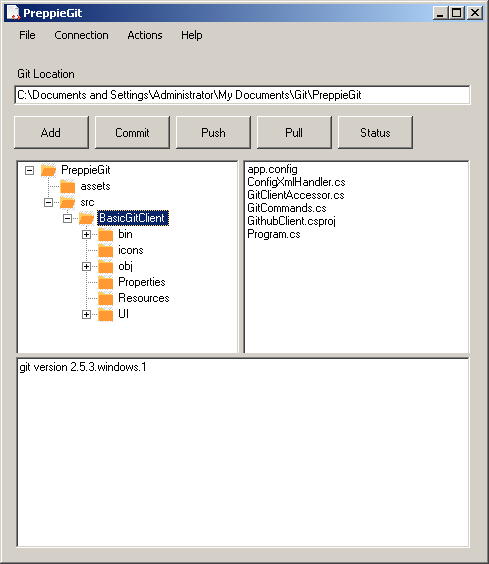
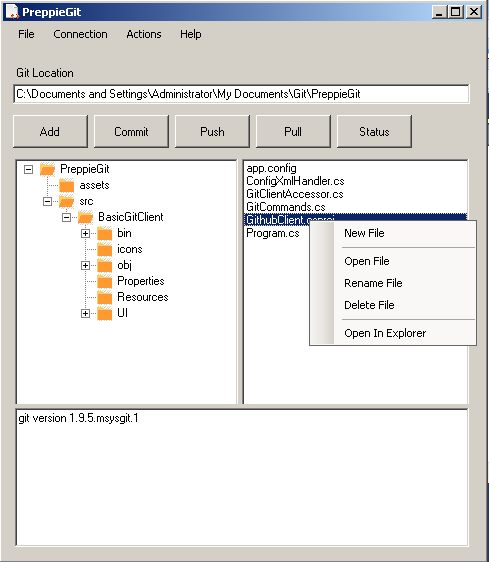
adding a show in explorer option

Changed region(s): [[0.0, 0.0, 1.0, 1.0]]

diff --git a/src/BasicGitClient/UI/Components/ControlDirectoryBrowser.Designer.cs b/src/BasicGitClient/UI/Components/ControlDirectoryBrowser.Designer.cs
@@ -36,6 +36,8 @@
             this.newDirectoryToolStripMenuItem = new System.Windows.Forms.ToolStripMenuItem();
             this.renameDirectoryToolStripMenuItem = new System.Windows.Forms.ToolStripMenuItem();
             this.deleteDirectoryToolStripMenuItem = new System.Windows.Forms.ToolStripMenuItem();
+            this.toolStripSeparator1 = new System.Windows.Forms.ToolStripSeparator();
+            this.openInExplorerToolStripMenuItem = new System.Windows.Forms.ToolStripMenuItem();
             this.imageListDirectory = new System.Windows.Forms.ImageList(this.components);
             this.lbFileList = new System.Windows.Forms.ListBox();
             this.ctxMnuFileBrowser = new System.Windows.Forms.ContextMenuStrip(this.components);
@@ -44,6 +46,8 @@
             this.openFileToolStripMenuItem = new System.Windows.Forms.ToolStripMenuItem();
             this.renameFileToolStripMenuItem = new System.Windows.Forms.ToolStripMenuItem();
             this.deleteFileToolStripMenuItem = new System.Windows.Forms.ToolStripMenuItem();
+            this.toolStripSeparator2 = new System.Windows.Forms.ToolStripSeparator();
+            this.openInExplorerToolStripMenuItem1 = new System.Windows.Forms.ToolStripMenuItem();
             ((System.ComponentModel.ISupportInitialize)(this.splitContainer1)).BeginInit();
             this.splitContainer1.Panel1.SuspendLayout();
             this.splitContainer1.Panel2.SuspendLayout();
@@ -71,9 +75,9 @@
             // 
             // tvDirectoryList
             // 
-            this.tvDirectoryList.Anchor = ((System.Windows.Forms.AnchorStyles)((((System.Windows.Forms.AnchorStyles.Top | System.Windows.Forms.AnchorStyles.Bottom) 
-            | System.Windows.Forms.AnchorStyles.Left) 
-            | System.Windows.Forms.AnchorStyles.Right)));
+            this.tvDirectoryList.Anchor = ((System.Windows.Forms.AnchorStyles)((((System.Windows.Forms.AnchorStyles.Top | System.Windows.Forms.AnchorStyles.Bottom)
+                        | System.Windows.Forms.AnchorStyles.Left)
+                        | System.Windows.Forms.AnchorStyles.Right)));
             this.tvDirectoryList.ContextMenuStrip = this.ctxMnuDirBrowser;
             this.tvDirectoryList.ImageIndex = 0;
             this.tvDirectoryList.ImageList = this.imageListDirectory;
@@ -92,14 +96,16 @@
             this.ctxMnuDirBrowser.Items.AddRange(new System.Windows.Forms.ToolStripItem[] {
             this.newDirectoryToolStripMenuItem,
             this.renameDirectoryToolStripMenuItem,
-            this.deleteDirectoryToolStripMenuItem});
+            this.deleteDirectoryToolStripMenuItem,
+            this.toolStripSeparator1,
+            this.openInExplorerToolStripMenuItem});
             this.ctxMnuDirBrowser.Name = "ctxMnuDirBrowser";
-            this.ctxMnuDirBrowser.Size = new System.Drawing.Size(161, 92);
+            this.ctxMnuDirBrowser.Size = new System.Drawing.Size(172, 98);
             // 
             // newDirectoryToolStripMenuItem
             // 
             this.newDirectoryToolStripMenuItem.Name = "newDirectoryToolStripMenuItem";
-            this.newDirectoryToolStripMenuItem.Size = new System.Drawing.Size(160, 22);
+            this.newDirectoryToolStripMenuItem.Size = new System.Drawing.Size(171, 22);
             this.newDirectoryToolStripMenuItem.Tag = "0";
             this.newDirectoryToolStripMenuItem.Text = "New Directory";
             this.newDirectoryToolStripMenuItem.Click += new System.EventHandler(this.toolStripDirectoryMenuItem_Click);
@@ -107,7 +113,7 @@
             // renameDirectoryToolStripMenuItem
             // 
             this.renameDirectoryToolStripMenuItem.Name = "renameDirectoryToolStripMenuItem";
-            this.renameDirectoryToolStripMenuItem.Size = new System.Drawing.Size(160, 22);
+            this.renameDirectoryToolStripMenuItem.Size = new System.Drawing.Size(171, 22);
             this.renameDirectoryToolStripMenuItem.Tag = "2";
             this.renameDirectoryToolStripMenuItem.Text = "Rename Directory";
             this.renameDirectoryToolStripMenuItem.Click += new System.EventHandler(this.toolStripDirectoryMenuItem_Click);
@@ -115,10 +121,23 @@
             // deleteDirectoryToolStripMenuItem
             // 
             this.deleteDirectoryToolStripMenuItem.Name = "deleteDirectoryToolStripMenuItem";
-            this.deleteDirectoryToolStripMenuItem.Size = new System.Drawing.Size(160, 22);
+            this.deleteDirectoryToolStripMenuItem.Size = new System.Drawing.Size(171, 22);
             this.deleteDirectoryToolStripMenuItem.Tag = "3";
             this.deleteDirectoryToolStripMenuItem.Text = "Delete Directory";
             this.deleteDirectoryToolStripMenuItem.Click += new System.EventHandler(this.toolStripDirectoryMenuItem_Click);
+            // 
+            // toolStripSeparator1
+            // 
+            this.toolStripSeparator1.Name = "toolStripSeparator1";
+            this.toolStripSeparator1.Size = new System.Drawing.Size(168, 6);
+            // 
+            // openInExplorerToolStripMenuItem
+            // 
+            this.openInExplorerToolStripMenuItem.Name = "openInExplorerToolStripMenuItem";
+            this.openInExplorerToolStripMenuItem.Size = new System.Drawing.Size(171, 22);
+            this.openInExplorerToolStripMenuItem.Tag = "4";
+            this.openInExplorerToolStripMenuItem.Text = "Open In Explorer";
+            this.openInExplorerToolStripMenuItem.Click += new System.EventHandler(this.toolStripDirectoryMenuItem_Click);
             // 
             // imageListDirectory
             // 
@@ -129,9 +148,9 @@
             // 
             // lbFileList
             // 
-            this.lbFileList.Anchor = ((System.Windows.Forms.AnchorStyles)((((System.Windows.Forms.AnchorStyles.Top | System.Windows.Forms.AnchorStyles.Bottom) 
-            | System.Windows.Forms.AnchorStyles.Left) 
-            | System.Windows.Forms.AnchorStyles.Right)));
+            this.lbFileList.Anchor = ((System.Windows.Forms.AnchorStyles)((((System.Windows.Forms.AnchorStyles.Top | System.Windows.Forms.AnchorStyles.Bottom)
+                        | System.Windows.Forms.AnchorStyles.Left)
+                        | System.Windows.Forms.AnchorStyles.Right)));
             this.lbFileList.ContextMenuStrip = this.ctxMnuFileBrowser;
             this.lbFileList.FormattingEnabled = true;
             this.lbFileList.Location = new System.Drawing.Point(3, 3);
@@ -146,15 +165,17 @@
             this.toolStripMenuItem2,
             this.openFileToolStripMenuItem,
             this.renameFileToolStripMenuItem,
-            this.deleteFileToolStripMenuItem});
+            this.deleteFileToolStripMenuItem,
+            this.toolStripSeparator2,
+            this.openInExplorerToolStripMenuItem1});
             this.ctxMnuFileBrowser.Name = "ctxMnuFileBrowser";
-            this.ctxMnuFileBrowser.Size = new System.Drawing.Size(133, 98);
+            this.ctxMnuFileBrowser.Size = new System.Drawing.Size(168, 148);
             this.ctxMnuFileBrowser.Opening += new System.ComponentModel.CancelEventHandler(this.ctxMnuFileBrowser_Opening);
             // 
             // newFileToolStripMenuItem
             // 
             this.newFileToolStripMenuItem.Name = "newFileToolStripMenuItem";
-            this.newFileToolStripMenuItem.Size = new System.Drawing.Size(132, 22);
+            this.newFileToolStripMenuItem.Size = new System.Drawing.Size(167, 22);
             this.newFileToolStripMenuItem.Tag = "0";
             this.newFileToolStripMenuItem.Text = "New File";
             this.newFileToolStripMenuItem.Click += new System.EventHandler(this.toolStripFileMenuItem_Click);
@@ -162,12 +183,12 @@
             // toolStripMenuItem2
             // 
             this.toolStripMenuItem2.Name = "toolStripMenuItem2";
-            this.toolStripMenuItem2.Size = new System.Drawing.Size(129, 6);
+            this.toolStripMenuItem2.Size = new System.Drawing.Size(164, 6);
             // 
             // openFileToolStripMenuItem
             // 
             this.openFileToolStripMenuItem.Name = "openFileToolStripMenuItem";
-            this.openFileToolStripMenuItem.Size = new System.Drawing.Size(132, 22);
+            this.openFileToolStripMenuItem.Size = new System.Drawing.Size(167, 22);
             this.openFileToolStripMenuItem.Tag = "1";
             this.openFileToolStripMenuItem.Text = "Open File";
             this.openFileToolStripMenuItem.Click += new System.EventHandler(this.toolStripFileMenuItem_Click);
@@ -175,7 +196,7 @@
             // renameFileToolStripMenuItem
             // 
             this.renameFileToolStripMenuItem.Name = "renameFileToolStripMenuItem";
-            this.renameFileToolStripMenuItem.Size = new System.Drawing.Size(132, 22);
+            this.renameFileToolStripMenuItem.Size = new System.Drawing.Size(167, 22);
             this.renameFileToolStripMenuItem.Tag = "2";
             this.renameFileToolStripMenuItem.Text = "Rename File";
             this.renameFileToolStripMenuItem.Click += new System.EventHandler(this.toolStripFileMenuItem_Click);
@@ -183,10 +204,23 @@
             // deleteFileToolStripMenuItem
             // 
             this.deleteFileToolStripMenuItem.Name = "deleteFileToolStripMenuItem";
-            this.deleteFileToolStripMenuItem.Size = new System.Drawing.Size(132, 22);
+            this.deleteFileToolStripMenuItem.Size = new System.Drawing.Size(167, 22);
             this.deleteFileToolStripMenuItem.Tag = "3";
             this.deleteFileToolStripMenuItem.Text = "Delete File";
             this.deleteFileToolStripMenuItem.Click += new System.EventHandler(this.toolStripFileMenuItem_Click);
+            // 
+            // toolStripSeparator2
+            // 
+            this.toolStripSeparator2.Name = "toolStripSeparator2";
+            this.toolStripSeparator2.Size = new System.Drawing.Size(164, 6);
+            // 
+            // openInExplorerToolStripMenuItem1
+            // 
+            this.openInExplorerToolStripMenuItem1.Name = "openInExplorerToolStripMenuItem1";
+            this.openInExplorerToolStripMenuItem1.Size = new System.Drawing.Size(167, 22);
+            this.openInExplorerToolStripMenuItem1.Tag = "4";
+            this.openInExplorerToolStripMenuItem1.Text = "Open In Explorer";
+            this.openInExplorerToolStripMenuItem1.Click += new System.EventHandler(this.toolStripFileMenuItem_Click);
             // 
             // ControlDirectoryBrowser
             // 
@@ -220,5 +254,9 @@
         private System.Windows.Forms.ToolStripMenuItem openFileToolStripMenuItem;
         private System.Windows.Forms.ToolStripSeparator toolStripMenuItem2;
         private System.Windows.Forms.ImageList imageListDirectory;
+        private System.Windows.Forms.ToolStripSeparator toolStripSeparator1;
+        private System.Windows.Forms.ToolStripMenuItem openInExplorerToolStripMenuItem;
+        private System.Windows.Forms.ToolStripSeparator toolStripSeparator2;
+        private System.Windows.Forms.ToolStripMenuItem openInExplorerToolStripMenuItem1;
     }
 }

diff --git a/src/BasicGitClient/UI/Components/ControlDirectoryBrowser.cs b/src/BasicGitClient/UI/Components/ControlDirectoryBrowser.cs
@@ -22,7 +22,8 @@ namespace BasicGitClient
         CREATE = 0,
         OPEN = 1,
         RENAME = 2,
-        DELETE = 3
+        DELETE = 3,
+        SHOW = 4
     } // end enum
 
     internal partial class ControlDirectoryBrowser : UserControl
@@ -218,6 +219,10 @@ namespace BasicGitClient
 
                         Directory.Move(dirPath, newFullPath);
                     } // end if
+                    break;
+                case ContextMenuItemTask.SHOW:
+                    Process.Start(dirPath);
+                    return;
                     break;
                 default:
                     return;
